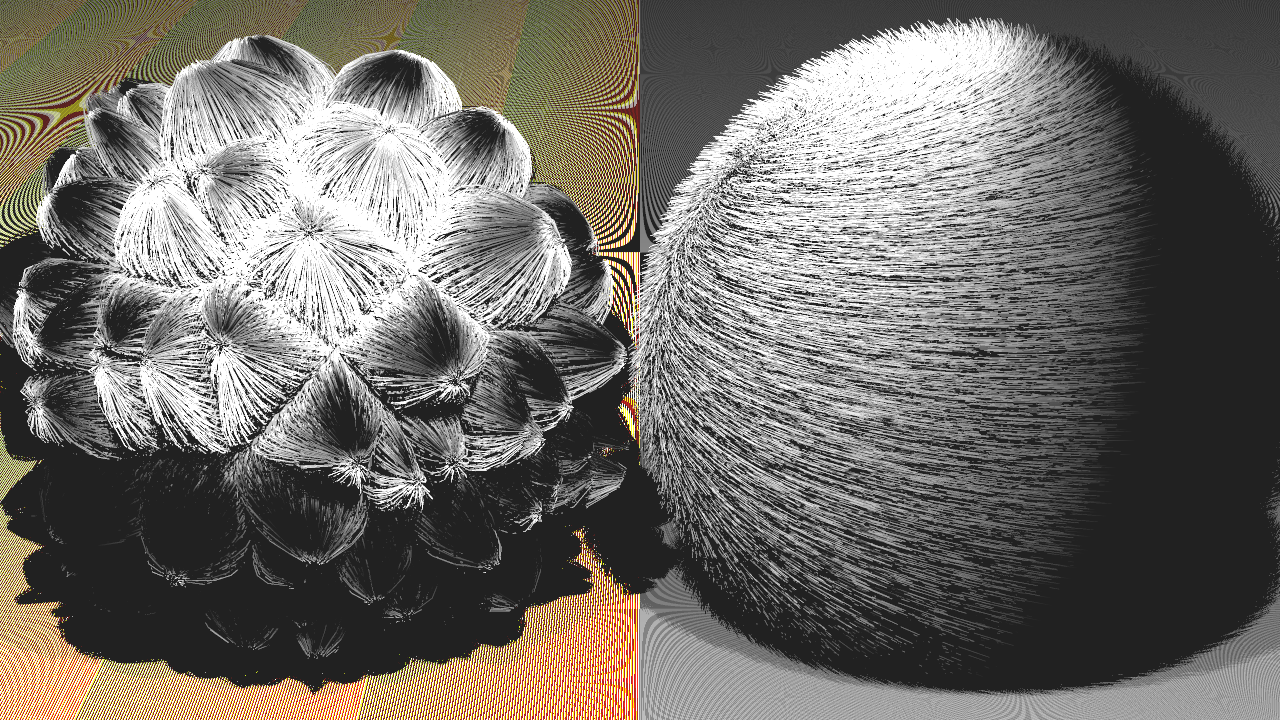
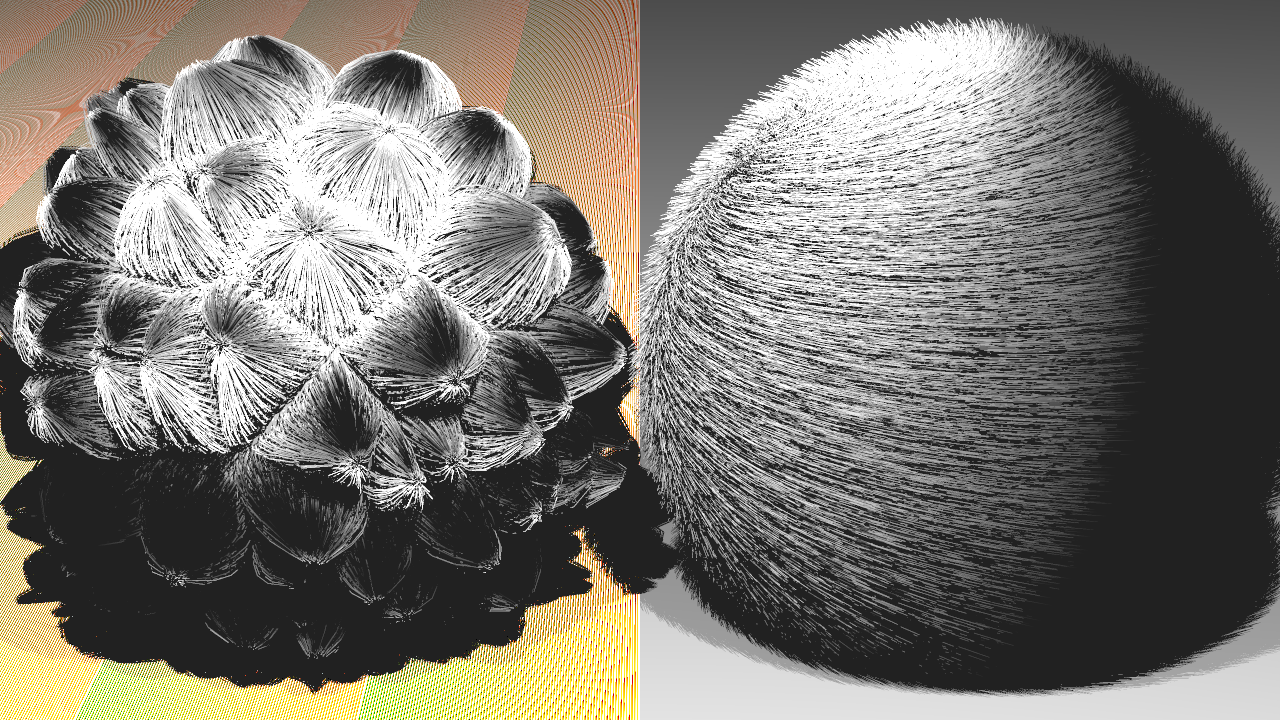
j

diff --git a/src/raytrace.cpp b/src/raytrace.cpp
@@ -9,7 +9,7 @@
 
 using namespace std;
 vector<yobj::shape*> lights= vector<yobj::shape*>{};
-float epsilon = 1e-6;
+float epsilon = 1e-4;
 
 ym::vec3f triangleNormal(const yobj::mesh* msh, int eid, ym::vec3f euv) {
   auto t = msh->shapes[0]->triangles[eid];
@@ -177,7 +177,7 @@ ym::vec4f compute_color(const ybvh::scene* bvh, const yobj::scene* scn, ym::ray3
       if(mat->kd_txt!= nullptr)
       {
         if(mat->kd_txt->ldr) {
-          kd *= textureLDR(msh, intersection.eid, intersection.euv.xyz(), mat->kd_txt).xyz();
+          kd*=textureLDR(msh, intersection.eid, intersection.euv.xyz(), mat->kd_txt).xyz();
         }
         else
           kd*=textureHDR(msh,intersection.eid,intersection.euv.xyz(), mat->kd_txt).xyz();
@@ -191,25 +191,39 @@ ym::vec4f compute_color(const ybvh::scene* bvh, const yobj::scene* scn, ym::ray3
       }
       for(auto light:lights){
 
-        auto l = normalize(light->pos[0]-p);
-        auto r = length(light->pos[0]-p);
+        auto l = ym::normalize(light->pos[0]-p);
+        auto r = ym::length(light->pos[0]-p);
 
         ym::ray3f sr = ym::ray3f(p,l,epsilon,r);
         auto shadow = ybvh::intersect_scene(bvh, sr, false);
+        auto In = light->mat->ke / (r * r);
         if(shadow) {
-          //c.xyz() += kd *  max(.0f, dot(n, normalize(sr.o-p)));
+          /*auto smsh = scn->instances[shadow.iid]->msh;
+          auto sn =  triangleNormal(smsh,shadow.eid,shadow.euv.xyz());
+          auto sp = trianglePosition(smsh,shadow.eid,shadow.euv.xyz());
+          auto sl = ym::normalize(light->pos[0]-sp);
+
+          if(shadow.iid==intersection.iid)
+            c.xyz() += kd * max(.0f, dot(sn, sl));
+          //c.xyz() += kd * max(.0f, dot(sn, normalize(light->pos[0]-sp)));*/
           continue;
         }
         else {
-          auto In = light->mat->ke / (r * r);
-          auto v = normalize(ray.o-p);
+          auto v = ym::normalize(ray.o-p);
           auto h = ym::normalize((v+l));
           auto ns = (mat->rs) ? 2 / (mat->rs * mat->rs) - 2 : 1e6f;
 
+          //if(!shadow || shadow.iid==intersection.iid)
           c.xyz() += kd * In * max(.0f, dot(n, l))
                    + ks * In * pow(max(.0f,dot(n,h)),ns);
         }
       }
+
+      if(mat->opacity)
+        c.xyz() *= ym::vec3f(mat->opacity)
+                   + ym::vec3f(1-mat->opacity)
+                     * compute_color(bvh,scn,ym::ray3f(p,ray.d,epsilon)).xyz();
+
 
       if(mat->kr.x!=0 && mat->kr.y!=0 && mat->kr.z!=0)//reflection
       {
@@ -226,7 +240,7 @@ ym::vec4f compute_color(const ybvh::scene* bvh, const yobj::scene* scn, ym::ray3
         n.z*=a;//2(n*v)
         reflectionRay.d= n+ray.d;
         //avoid hitting visible point
-        reflectionRay.tmin=0.0005f+0.0002f;
+        reflectionRay.tmin=epsilon;//0.0005f+0.0002f;
         // accumulate the reflected light (recursive call) scaled by the material reflection
         c.xyz() += mat->kr*compute_color(bvh,scn, reflectionRay).xyz();
       }
